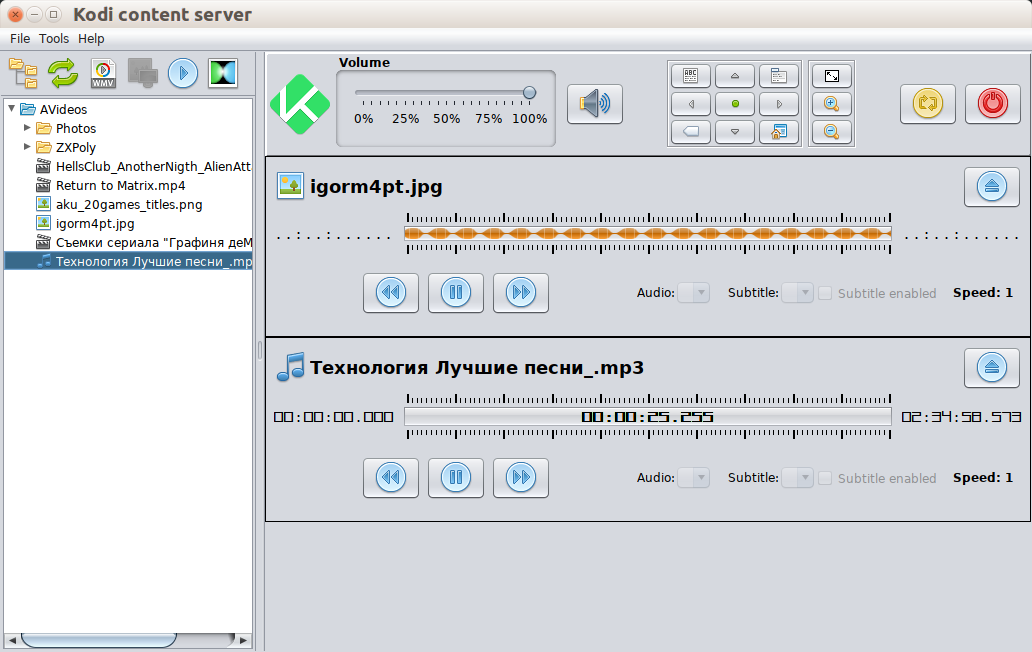
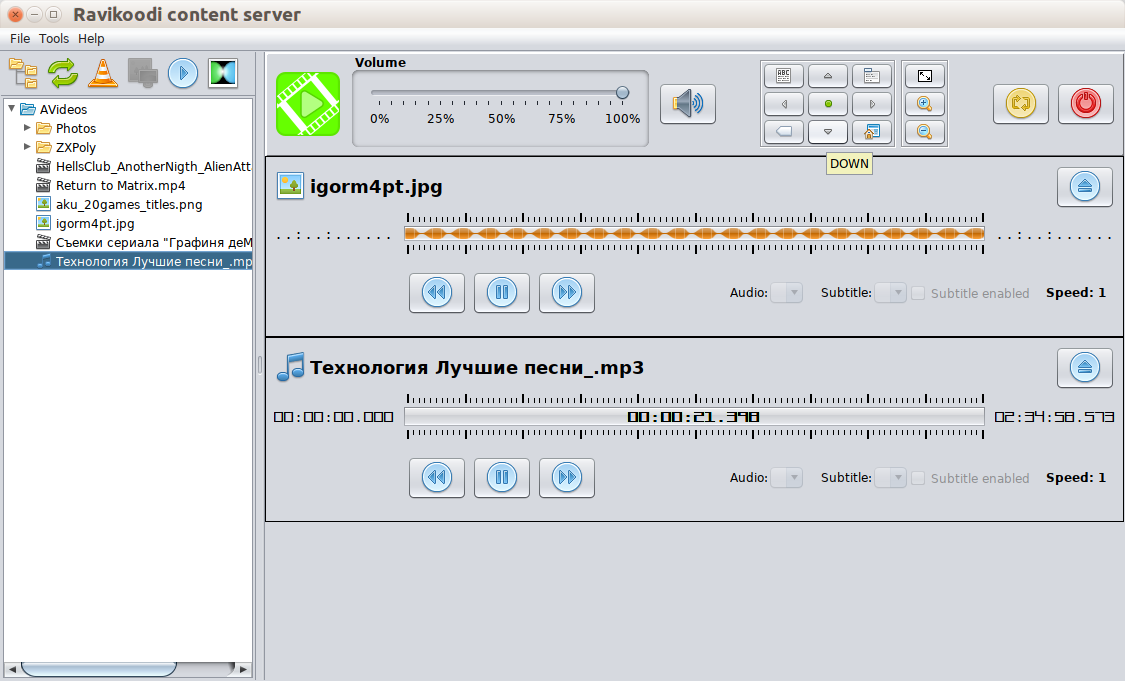
release 1.1.1

Changed region(s): [[0.0, 0.0, 1.0, 1.0], [0.0, 0.9509, 0.031, 1.0]]

diff --git a/README.md b/README.md
@@ -12,18 +12,18 @@ At home I use [Raspberry PI 3](https://www.raspberrypi.org/products/raspberry-pi
 ## If you don't have installed Java or don't care about that
 
 It is a Java application so that in ideal it needs pre-installed Java 1.8+, but since 1.1.0 release Iprovide also pre-built versions with embedded JDK images, they can be started without installed Java:
- - [version for Linux with JDK image](https://github.com/raydac/kodi-videoserver-app/releases/download/1.1.0/kodi-video-1.1.0-linux-withjdk.tar.gz)
- - [version for Windows with JDK image](https://github.com/raydac/kodi-videoserver-app/releases/download/1.1.0/kodi-video-1.1.0-windows-withjdk.zip)
- - [version for MacOS with JDK image](https://github.com/raydac/kodi-videoserver-app/releases/download/1.1.0/kodi-video-1.1.0-macos-withjdk.zip)
+ - [version for Linux with JDK image](https://github.com/raydac/ravikoodi-server/releases/download/1.1.1/ravikoodi-server-1.1.1-linux-withjdk.tar.gz)
+ - [version for Windows with JDK image](https://github.com/raydac/kodi-videoserver-app/releases/download/1.1.1/ravikoodi-server-1.1.1-windows-withjdk.zip)
+ - [version for MacOS with JDK image](https://github.com/raydac/kodi-videoserver-app/releases/download/1.1.1/ravikoodi-server-1.1.1-macos-withjdk.zip)
 
-You can just load needed archive, unpack in a folder and start its executable file. 
+You can just load needed archive, unpack in a folder and start its executable file.
 
 ## If you have installed Java and need less size distributives
 
 If you have pre-installed Java 1.8+, you can load files without embedded JDK:
- - [version for Linux](https://github.com/raydac/kodi-videoserver-app/releases/download/1.1.0/kodi-video-1.1.0.sh)
- - [version for Windows](https://github.com/raydac/kodi-videoserver-app/releases/download/1.1.0/kodi-video-1.1.0.exe)
- - [version for MacOS](https://github.com/raydac/kodi-videoserver-app/releases/download/1.1.0/kodi-video-1.1.0_OSX.dmg)
+ - [version for Linux](https://github.com/raydac/ravikoodi-server/releases/download/1.1.1/kodi-video-1.1.1.sh)
+ - [version for Windows](https://github.com/raydac/ravikoodi-server/releases/download/1.1.1/kodi-video-1.1.1.exe)
+ - [version for MacOS](https://github.com/raydac/ravikoodi-server/releases/download/1.1.1/kodi-video-1.1.1_OSX.dmg)
 
 ## Requirements
 
@@ -43,7 +43,7 @@ It is a Spring Boot based application with embedded Jetty web server. For screen
 
 ## How to build?
 It is absolutely free and open-source application (under Apache 2.0 license), I don't ask for any fee for use of it (but you could make some donation and I would be very appreciate for that).
-1. For build distributived you need JDK 1.8 (you can use JDK 9+ but some release plug-ins of Maven can work only with JDK 1.8) 
+1. For build distributived you need JDK 1.8 (you can use JDK 9+ but some release plug-ins of Maven can work only with JDK 1.8)
 2. You need Maven to build project
 3. Go to into project folder and call `mvn clean install` to get compiled JAR, it can be started separately through `java -jar <JAR_FILE>`
 4. To get release versions, you should use `mvn clean install -Ppublish`, in the `target` folder you will find all prepared archives
